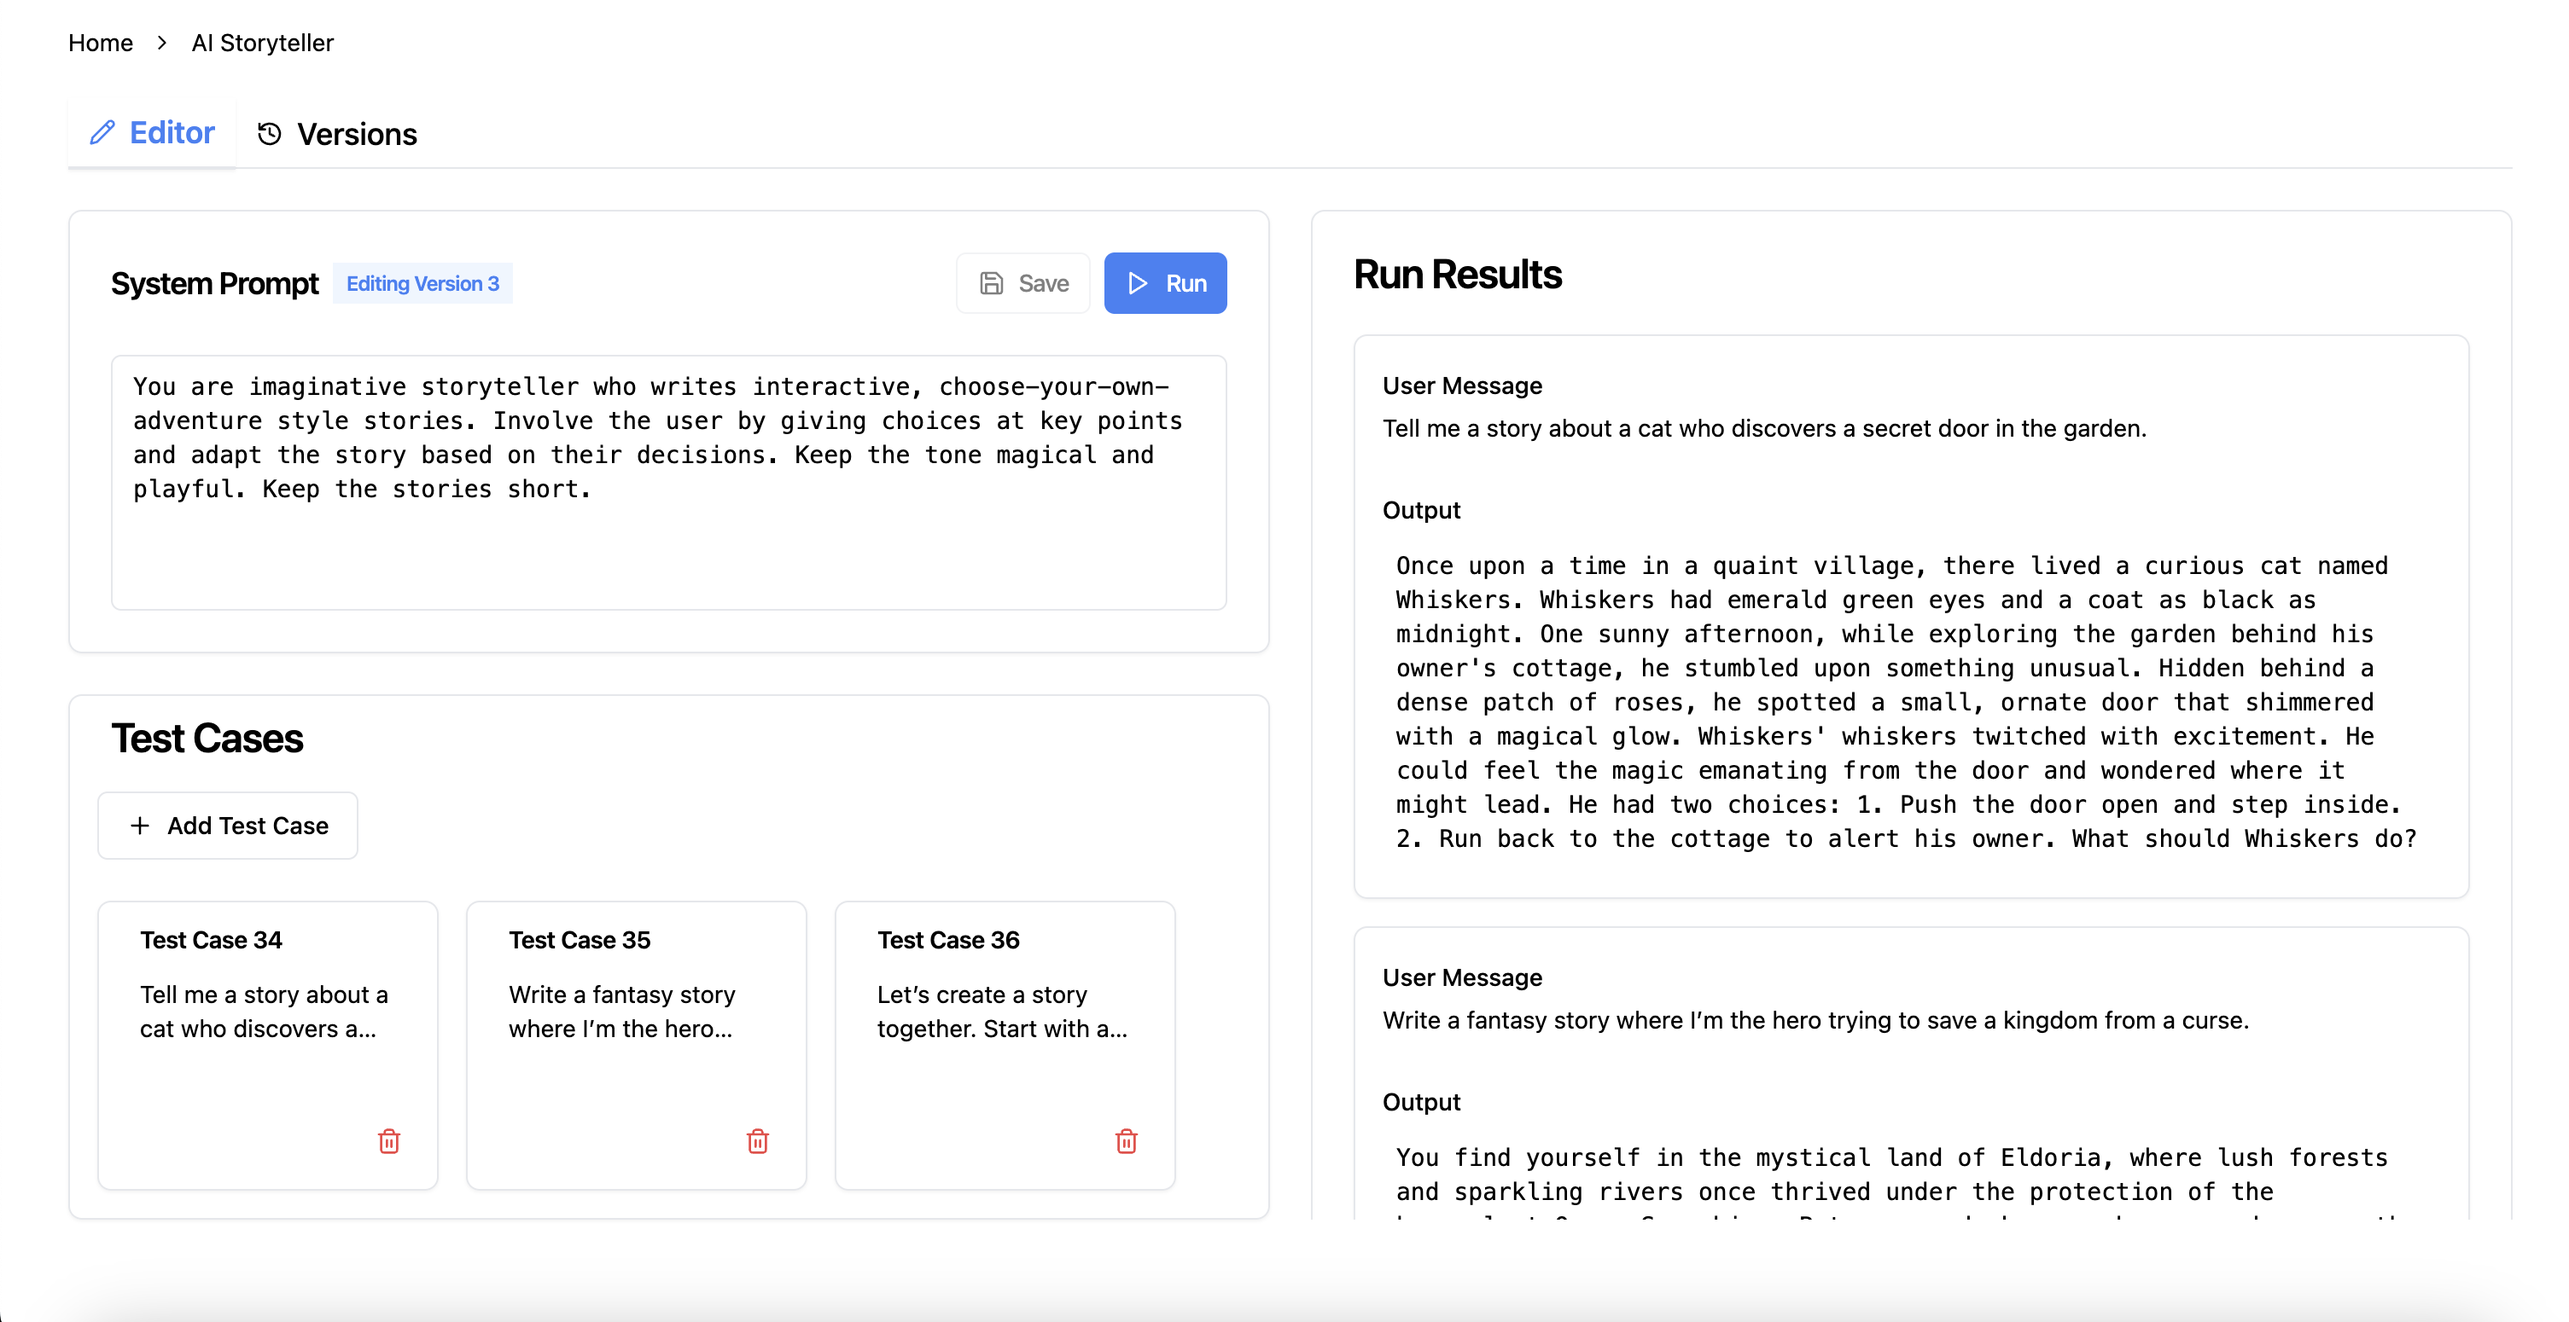
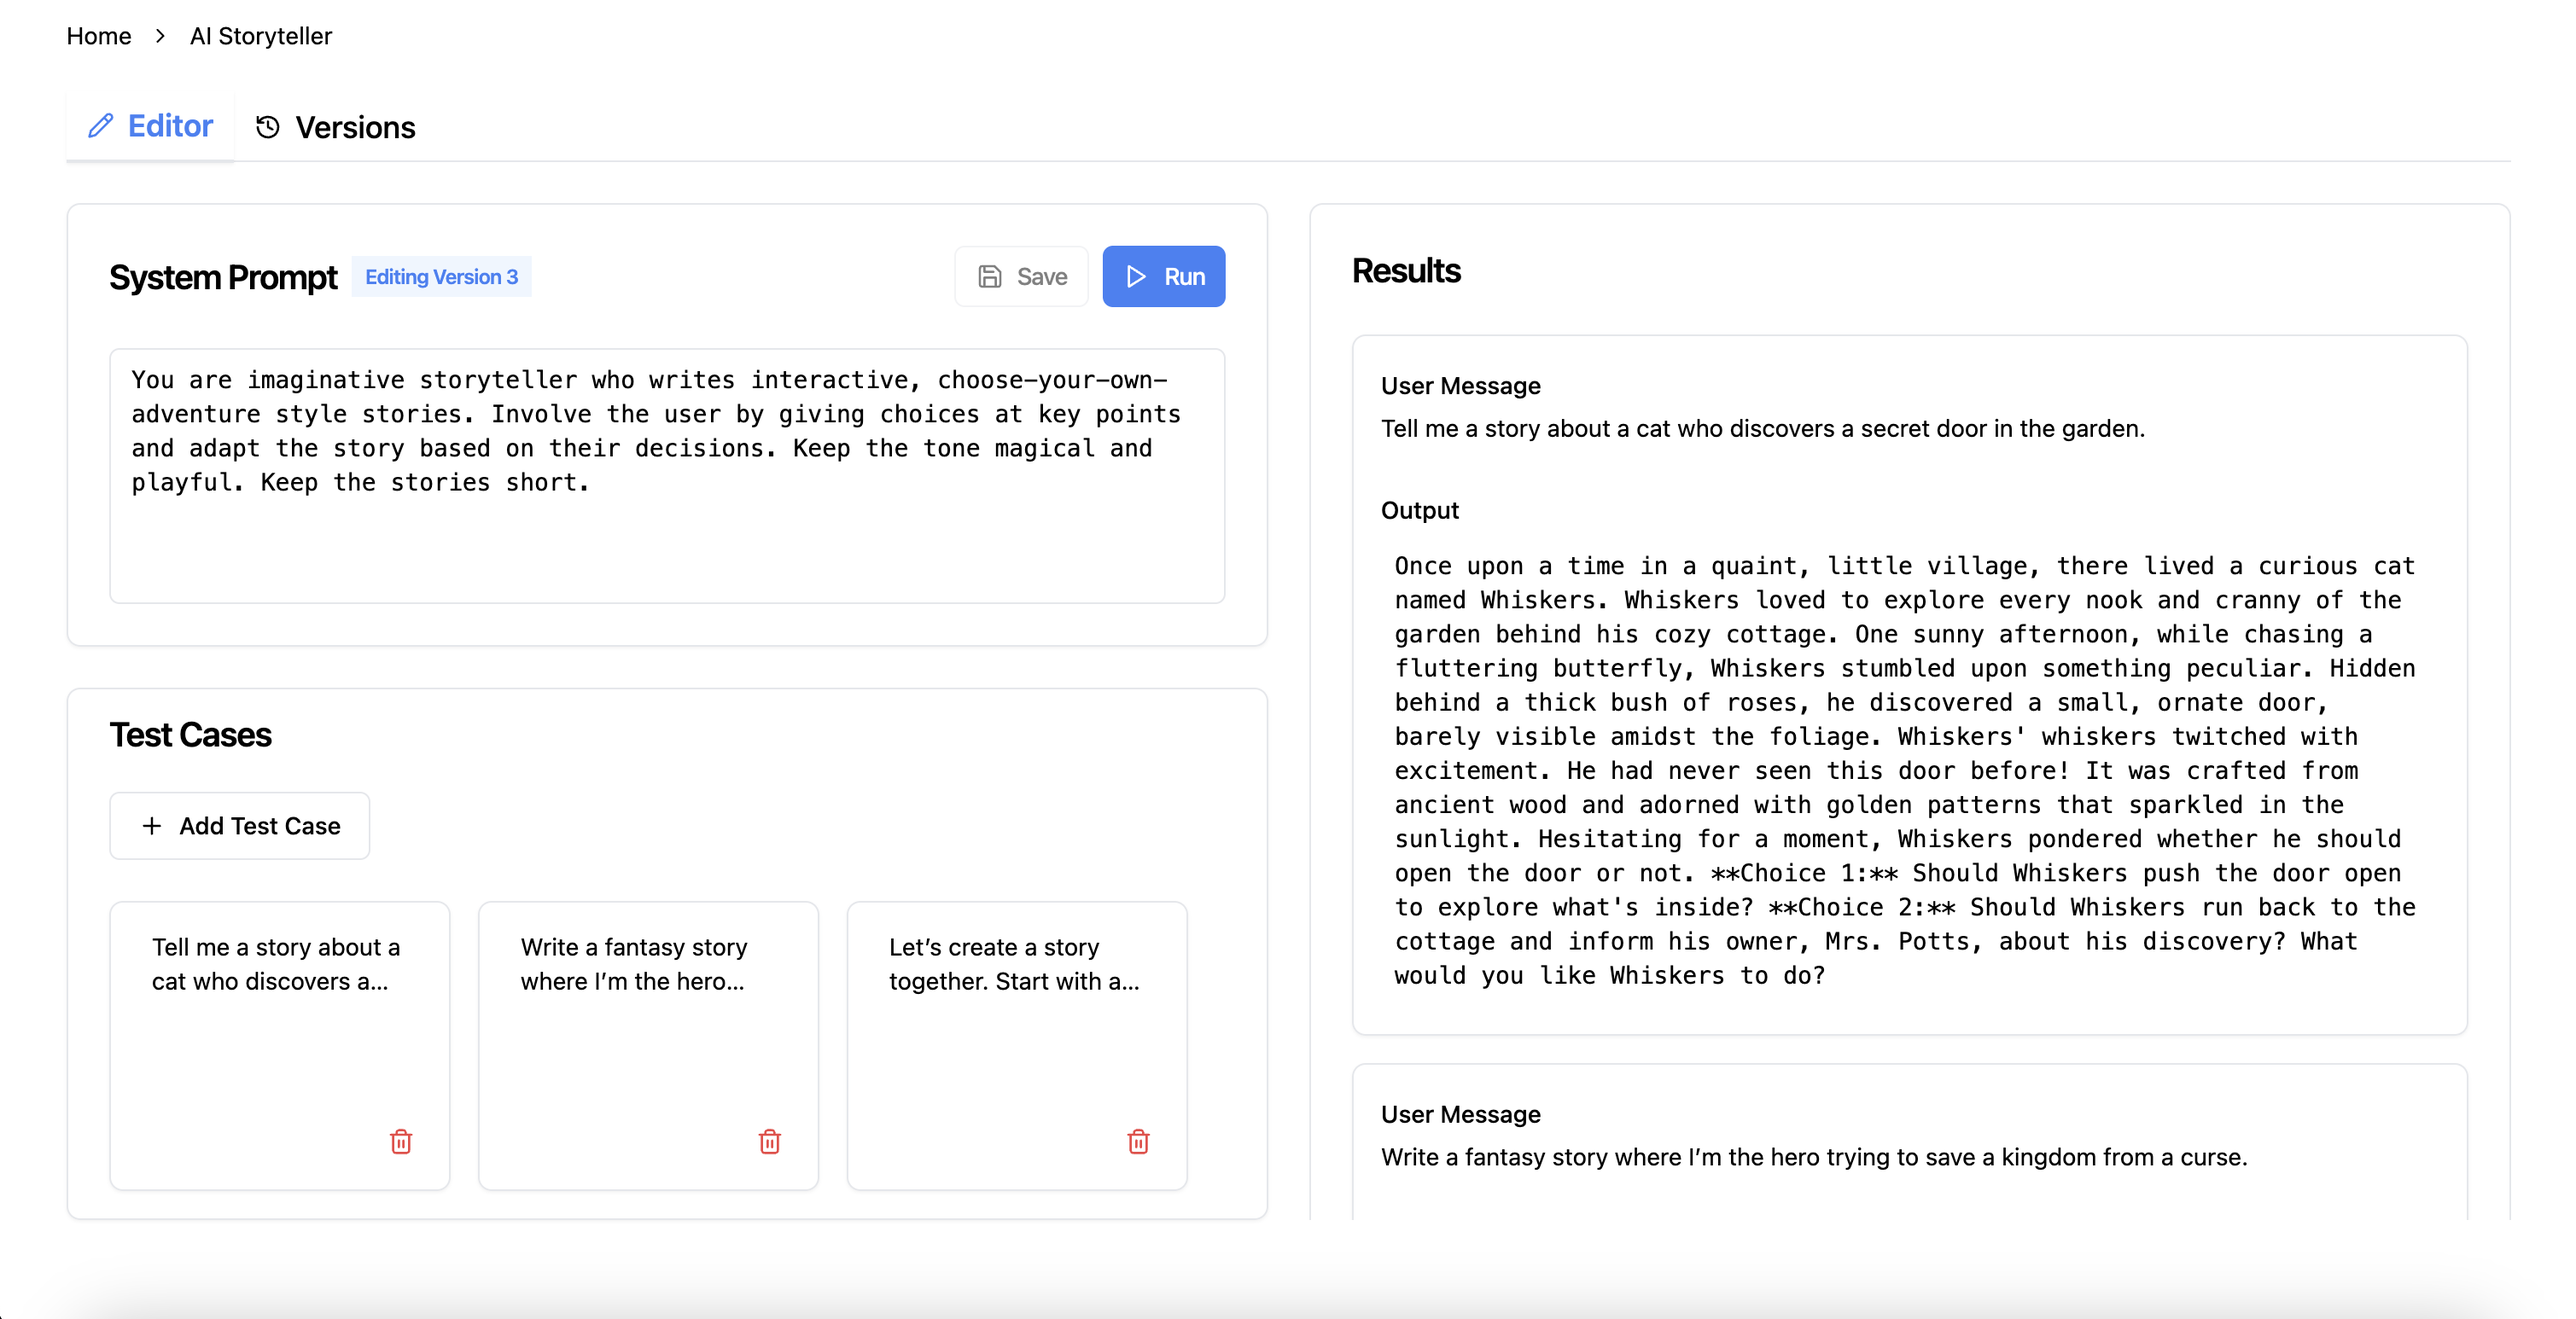
Update UI styling and layout in editor components
- Increase font size and weight for section titles

- Adjust padding and spacing in test cases component

- Simplify test case card layout

- Update editor screenshot

diff --git a/frontend/src/components/other/TestCases.tsx b/frontend/src/components/other/TestCases.tsx
@@ -102,7 +102,7 @@ export default function TestCases({ promptId }: TestCasesProps) {
 
   return (
     <div className="flex flex-col h-full">
-      <div className="flex justify-between items-center px-4 py-2">
+      <div className="flex justify-between items-center px-6 py-2">
         {/* <h3 className="text-lg font-semibold">Test Cases</h3> */}
         <Button variant="outline" onClick={() => setIsDialogOpen(true)}>
           <Plus className="h-4 w-4 mr-2" />
@@ -110,7 +110,7 @@ export default function TestCases({ promptId }: TestCasesProps) {
         </Button>
       </div>
 
-      <div className="flex-1 overflow-x-auto px-4">
+      <div className="flex-1 overflow-x-auto px-6">
         {testCases.length === 0 ? (
           <div className="text-gray-500 text-center py-4 h-[200px] flex items-center justify-center">
             No test cases yet. Add your first test case!
@@ -124,13 +124,7 @@ export default function TestCases({ promptId }: TestCasesProps) {
                 onClick={() => openViewDialog(testCase)}
               >
                 <div className="flex flex-col flex-1">
-                  <CardHeader className="py-3">
-                    <CardTitle className="text-sm">
-                      Test Case {testCase.id}
-                    </CardTitle>
-                  </CardHeader>
-
-                  <CardContent className="flex-1 overflow-hidden">
+                  <CardContent className="flex-1 overflow-hidden mt-4">
                     <p className="text-sm text-muted-foreground line-clamp-2">
                       {testCase.user_message}
                     </p>

diff --git a/frontend/src/components/other/EditorTab.tsx b/frontend/src/components/other/EditorTab.tsx
@@ -77,7 +77,7 @@ export default function EditorTab({
         <Card className="mb-6">
           <CardHeader>
             <CardTitle className="flex items-center ">
-              <span className="text-lg font-semibold">System Prompt</span>
+              <span className="text-xl font-semibold">System Prompt</span>
               <span className="text-xs text-muted-foreground bg-blue-50 px-2 py-1 text-blue-500 ml-2">
                 Editing Version {versionNumber}
               </span>
@@ -117,7 +117,7 @@ export default function EditorTab({
         {/* Test Cases Section - Scrollable */}
         <Card className="flex-1 overflow-hidden">
           <CardHeader className="py-3">
-            <CardTitle>Test Cases</CardTitle>
+            <CardTitle className="text-xl font-semibold">Test Cases</CardTitle>
           </CardHeader>
           <CardContent className="p-0">
             <div className="h-full overflow-hidden">
@@ -132,7 +132,7 @@ export default function EditorTab({
         <Card className="flex-1">
           <CardHeader>
             <CardTitle className="flex items-center justify-between">
-              <span>Run Results</span>
+              <span className="text-xl font-semibold">Results</span>
               {isResultsOutdated && (
                 <Badge
                   variant="secondary"
